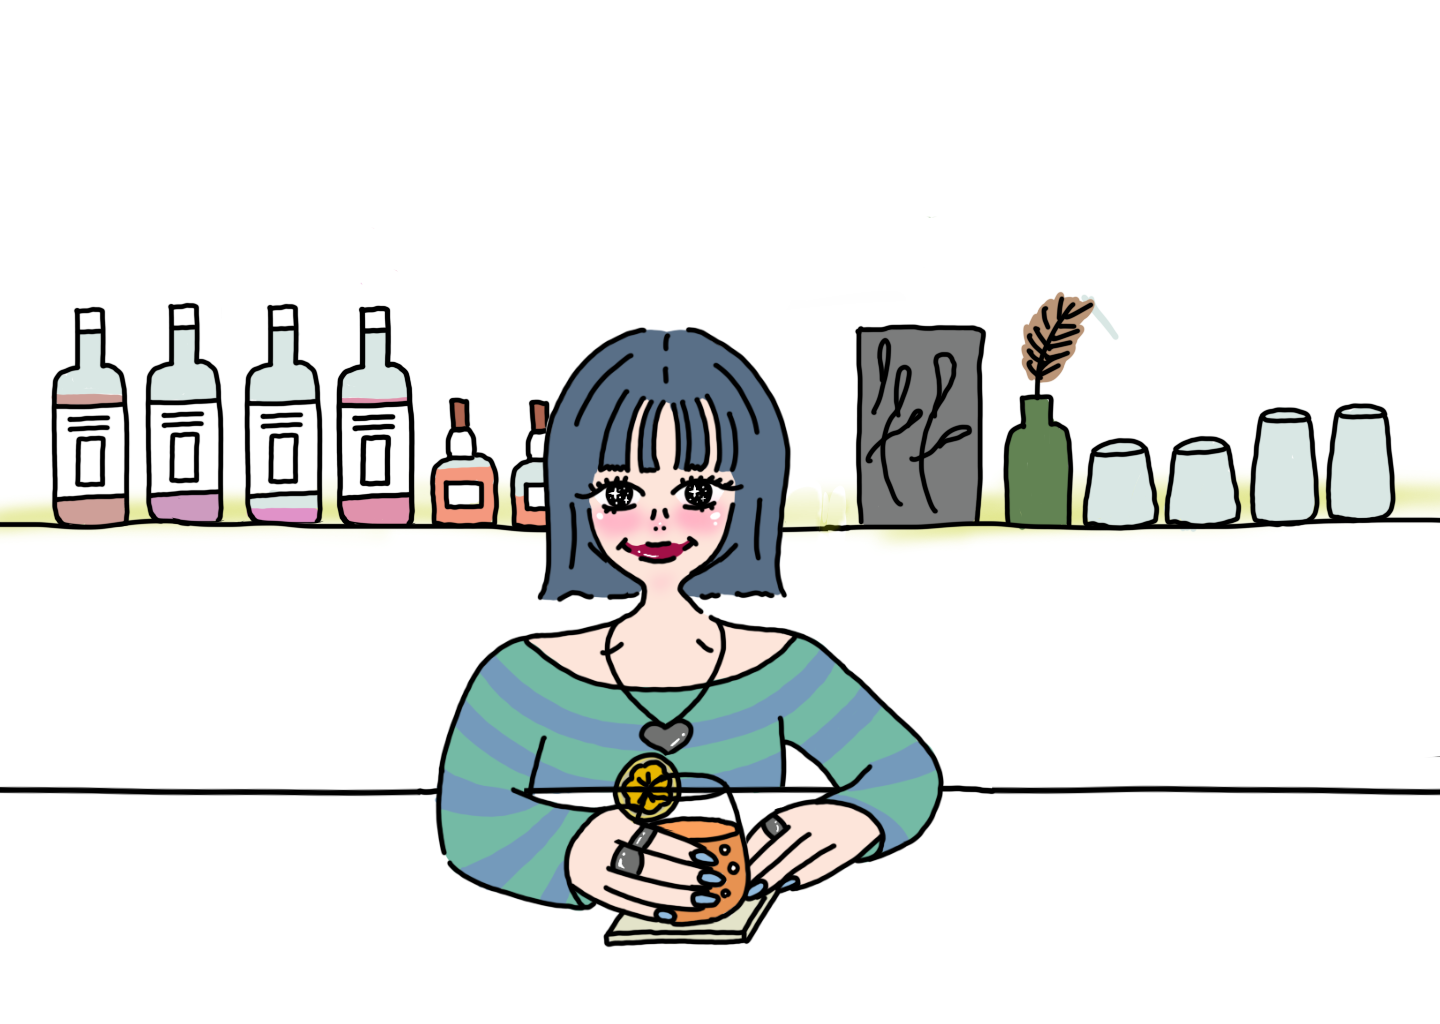
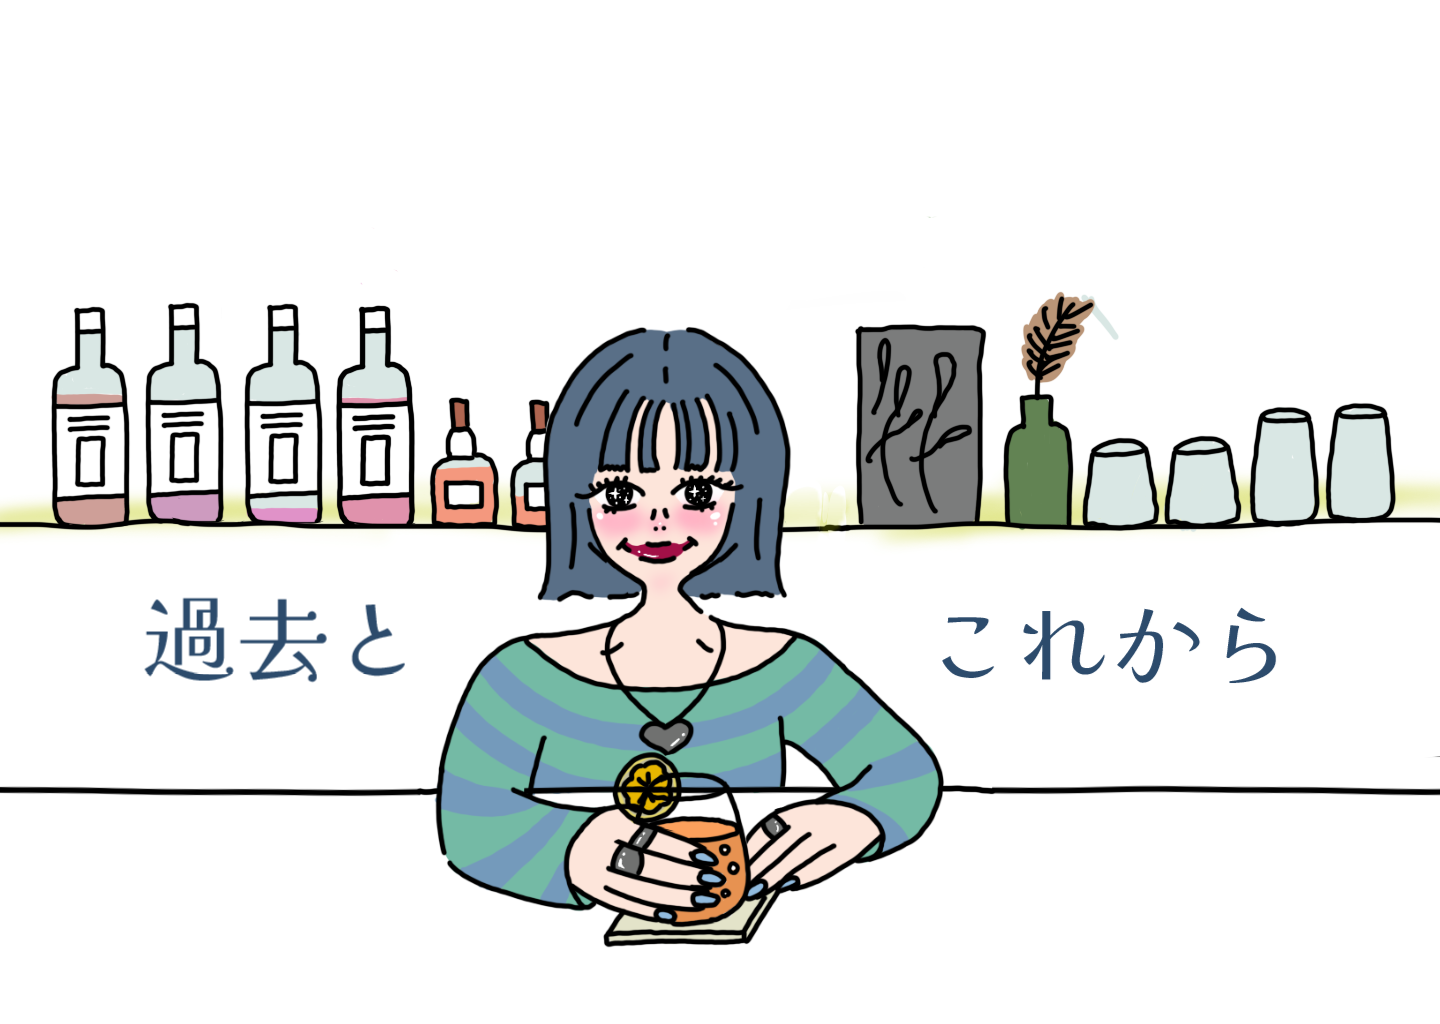
GIF

Changed region(s): [[0.0938, 0.5625, 0.2812, 0.6875], [0.7188, 0.5938, 0.9062, 0.6875], [0.6562, 0.5938, 0.6875, 0.6875]]

diff --git a/functions.js b/functions.js
@@ -106,6 +106,32 @@ window.addEventListener('scroll', () => {
         }
     }
 
+    /* ...existing code... */
+    (function manageClipboardOverlay() {
+        // content-area の clipboard を対象（index/chapter 両方で動くように）
+        const containers = document.querySelectorAll('.content-area > .clipboard-container, .clipboard-container');
+        if (!containers || containers.length === 0) return;
+
+        containers.forEach(container => {
+            const wrapper = container.querySelector('.clipboard-sticky-wrapper');
+            if (!wrapper) return;
+
+            // wrapper が画面の半分以上見えたらオーバーレイを付ける（閾値は調整可）
+            const observer = new IntersectionObserver((entries) => {
+                entries.forEach(entry => {
+                    if (entry.intersectionRatio > 0.5) {
+                        container.classList.add('has-overlay');
+                    } else {
+                        container.classList.remove('has-overlay');
+                    }
+                });
+            }, { threshold: [0, 0.5] });
+
+            observer.observe(wrapper);
+        });
+    })();
+    /* ...existing code... */
+
     // 【B】クリップボードめくり処理（chapter1では3枚めくり対応、indexでは従来通り）
     const container = document.querySelector('.interview-section .clipboard-container') || document.querySelector('.clipboard-container');
     const paperImg = document.getElementById('paper-image');
@@ -113,6 +139,7 @@ window.addEventListener('scroll', () => {
     const secondPage = document.getElementById('second-page') || document.querySelector('.second-page') || null;
     const thirdPage = document.getElementById('third-page') || null;
 
+    /* ...existing code... */
     if (container && paperImg) {
         const rect = container.getBoundingClientRect();
         const scrolled = Math.max(0, -rect.top);
@@ -120,11 +147,17 @@ window.addEventListener('scroll', () => {
         let progress = Math.min(1, scrolled / maxScroll);
 
         const totalFrames = 13; // paper-1 ... paper-13
-        const fadeEnd = 0.25;
+
+        // フェード開始を遅らせたい場合は fadeStart を大きくする（例: 0.4）
+        const fadeStart = 0.25;
+        const fadeEnd = 0.35;
+
+        // overlay が未定義になる可能性があるので安全に取得
+        const overlay = firstPage || (container ? container.querySelector('.first-page') : null);
 
         if (thirdPage) {
             // chapter1: 2段階めくり
-            const animStart1 = 0.20;
+            const animStart1 = 0.25;
             const animEnd1 = 0.38;
             const showSecond = 0.38;
 
@@ -134,14 +167,33 @@ window.addEventListener('scroll', () => {
 
             const pageFade = 0.12;
 
-            // first-page のフェードアウト
+            // first-page のフェードアウト（fadeStart -> fadeEnd を使用）
             if (firstPage) {
-                if (progress <= fadeEnd) {
-                    firstPage.style.opacity = String(1 - (progress / fadeEnd));
+                if (progress <= fadeStart) {
+                    firstPage.style.opacity = '1';
+                    firstPage.style.visibility = 'visible';
+                } else if (progress > fadeStart && progress <= fadeEnd) {
+                    const local = (progress - fadeStart) / (fadeEnd - fadeStart);
+                    firstPage.style.opacity = String(Math.max(0, 1 - local));
                     firstPage.style.visibility = 'visible';
                 } else {
                     firstPage.style.opacity = '0';
                     firstPage.style.visibility = 'hidden';
+                }
+            }
+
+            // overlay（同一扱い）も安全に制御
+            if (overlay) {
+                if (progress <= fadeStart) {
+                    overlay.style.opacity = '1';
+                    overlay.style.visibility = 'visible';
+                } else if (progress > fadeStart && progress <= fadeEnd) {
+                    const fadeProgress = (progress - fadeStart) / (fadeEnd - fadeStart);
+                    overlay.style.opacity = String(Math.max(0, 1 - fadeProgress));
+                    overlay.style.visibility = 'visible';
+                } else {
+                    overlay.style.opacity = '0';
+                    overlay.style.visibility = 'hidden';
                 }
             }
 
@@ -185,27 +237,34 @@ window.addEventListener('scroll', () => {
             }
 
             // 3枚目表示判定
-            const inner3 = thirdPage.querySelector('.inner-block');
-            if (progress >= showThird) {
-                thirdPage.style.opacity = '1';
-                thirdPage.style.visibility = 'visible';
-                thirdPage.style.pointerEvents = 'auto';
-                if (inner3) inner3.classList.add('revealed');
-            } else {
-                thirdPage.style.opacity = '0';
-                thirdPage.style.visibility = 'hidden';
-                thirdPage.style.pointerEvents = 'none';
-                if (inner3) inner3.classList.remove('revealed');
+            if (thirdPage) {
+                const inner3 = thirdPage.querySelector('.inner-block');
+                if (progress >= showThird) {
+                    thirdPage.style.opacity = '1';
+                    thirdPage.style.visibility = 'visible';
+                    thirdPage.style.pointerEvents = 'auto';
+                    if (inner3) inner3.classList.add('revealed');
+                } else {
+                    thirdPage.style.opacity = '0';
+                    thirdPage.style.visibility = 'hidden';
+                    thirdPage.style.pointerEvents = 'none';
+                    if (inner3) inner3.classList.remove('revealed');
+                }
             }
 
         } else {
             // index 等：thirdPage がない場合（従来通りの1回めくり）
-            const animStart = 0.15;
+            const animStart = 0.25;
             const animEnd = 0.45;
 
+            // first-page のフェードアウト（fadeStart -> fadeEnd を使用）
             if (firstPage) {
-                if (progress <= fadeEnd) {
-                    firstPage.style.opacity = String(1 - (progress / fadeEnd));
+                if (progress <= fadeStart) {
+                    firstPage.style.opacity = '1';
+                    firstPage.style.visibility = 'visible';
+                } else if (progress > fadeStart && progress <= fadeEnd) {
+                    const local = (progress - fadeStart) / (fadeEnd - fadeStart);
+                    firstPage.style.opacity = String(Math.max(0, 1 - local));
                     firstPage.style.visibility = 'visible';
                 } else {
                     firstPage.style.opacity = '0';
@@ -213,6 +272,7 @@ window.addEventListener('scroll', () => {
                 }
             }
 
+            // 紙フレーム
             if (progress >= animStart && progress <= animEnd) {
                 const norm = (progress - animStart) / (animEnd - animStart);
                 const idx = Math.min(totalFrames, Math.max(1, Math.floor(norm * (totalFrames - 1)) + 1));
@@ -239,6 +299,7 @@ window.addEventListener('scroll', () => {
             }
         }
     }
+    /* ...existing code... */
 
     // 【C】その他の要素 (Turning Pointなど)
     const triggerSection = document.getElementById('turning-point-trigger');

diff --git a/styles.css b/styles.css
@@ -77,6 +77,37 @@ body {
     margin-bottom: 0;
 }
 
+.content-area>.clipboard-container {
+    background-image: url('images/030.png');
+    background-size: cover;
+    background-repeat: no-repeat;
+    background-position: center;
+    background-attachment: fixed;
+    margin-top: 0vh;
+    padding-top: 100vh;
+    padding-bottom: 100vh;
+}
+
+.content-area>.clipboard-container::before {
+    content: "";
+    position: absolute;
+    inset: 0;
+    background: rgba(255, 255, 255, 0.45);
+    /* 調整可 */
+    opacity: 0;
+    visibility: hidden;
+    transition: opacity 300ms ease, visibility 0ms linear 300ms;
+    pointer-events: none;
+    z-index: 0;
+}
+
+/* クリップボードが表示されたらうっすら白フィルターを乗せる */
+.content-area>.clipboard-container.has-overlay::before {
+    opacity: 1;
+    visibility: visible;
+    transition: opacity 300ms ease;
+}
+
 /* 紙画像を常に画面中央に表示、高さを画面に合わせ幅は自動にする */
 .clipboard-sticky-wrapper {
     position: sticky;
@@ -314,7 +345,7 @@ body {
     align-items: center;
     z-index: 4;
     pointer-events: auto;
-    transition: opacity 0.25s ease-out;
+    transition: opacity 1.0s ease-out;
     /* ここも短くしてより素早くフェード */
     will-change: opacity;
 }
@@ -737,7 +768,7 @@ body {
     right: 10%;
     bottom: 5%;
     font-family: 'Kaisei Opti', serif;
-    font-size: 6vh;
+    font-size: 5vh;
     font-weight: bold;
     color: #2c4463;
     opacity: 0;
@@ -968,3 +999,11 @@ body {
     color: #2c4463;
     margin-bottom: 3vh;
 }
+
+
+
+
+
+
+
+

diff --git a/chapter1.html b/chapter1.html
@@ -16,13 +16,10 @@
         <div class="visual-container">
             <img src="images/chapter1.png" alt="Chapter 1 Main" class="main-visual-img">
 
-            <div class="title-split-container">
-                <h1 class="title-left">「030」に</h1>
-                <h1 class="title-right">出会うまで</h1>
-            </div>
+        
 
             <div class="chapter-number-badge">
-                第1章
+                chapter-1
             </div>
         </div>
     </section>
@@ -194,7 +191,7 @@
                             <img src="images/clothes.gif" alt="Decoration">
                         </div>
                         <div class="summary">
-                            結婚を断られた当時の彼氏から就職を後押ししてもらったことをきっかけに、自分の好きなことを追い求めて職を転々とするレイナさん。030に出会ったレイナさんは今何を感じているのだろうか。
+                            結婚を断られた当時の彼氏から就職を後押ししてもらったことをきっかけに、自分の好きなことを追い求めて職を転々とするレイナさん。030に出会ったレイナさんは今何を感じているのだろうか
                         </div>
 
                         <a href="chapter2.html" class="next-chapter-btn">

diff --git a/index.html b/index.html
@@ -27,14 +27,10 @@
     </section>
 
     <main class="content-area">
-        <svg style="display:none;">
-            <filter id="noiseFilter">
-                <feTurbulence type="fractalNoise" baseFrequency="5.0" numOctaves="3" stitchTiles="stitch" />
-            </filter>
-        </svg>
-
 
         <section class="clipboard-container">
+
+
             <div class="clipboard-sticky-wrapper">
                 <img src="images/paper-1.png" id="paper-image" class="paper-image">
 

diff --git a/chapter3.html b/chapter3.html
@@ -16,13 +16,8 @@
         <div class="visual-container">
             <img src="images/chapter3.png" alt="Chapter 3 Main" class="main-visual-img">
 
-            <div class="title-split-container">
-                <h1 class="title-left">過去と</h1>
-                <h1 class="title-right">これから</h1>
-            </div>
-
             <div class="chapter-number-badge">
-                第3章
+                chapter-3
             </div>
         </div>
     </section>

diff --git a/chapter2.html b/chapter2.html
@@ -16,13 +16,9 @@
         <div class="visual-container">
             <img src="images/chapter2.png" alt="Chapter 2 Main" class="main-visual-img">
 
-            <div class="title-split-container">
-                <h1 class="title-left">030との</h1>
-                <h1 class="title-right">出会い</h1>
-            </div>
 
             <div class="chapter-number-badge">
-                第2章
+                chapter-2
             </div>
         </div>
     </section>
